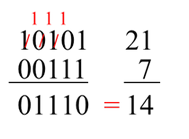
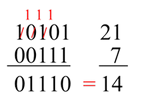
updage img size, update BinaryOperation readme

diff --git a/src/main/java/algorithms/numbers/bits/BinaryOperations.md b/src/main/java/algorithms/numbers/bits/BinaryOperations.md
@@ -8,34 +8,38 @@ an increment resets it to 0 and causes an increment of the next digit to the lef
 
 
 #### Calculations
-Addition:  
+
+**Addition:**  
 ![addition](https://github.com/aTan-aka-Xellos/java-algorithms/blob/master/src/main/resources/img/numbers/addition.png)  
 
-Subtraction:  
+**Subtraction:**  
 ![substraction](https://github.com/aTan-aka-Xellos/java-algorithms/blob/master/src/main/resources/img/numbers/substraction.png)
 
-Multiplication:  
+**Multiplication:**  
 ![multiplication](https://github.com/aTan-aka-Xellos/java-algorithms/blob/master/src/main/resources/img/numbers/multiplication.png)
 
-Division:  
+**Division:**  
 ![division](https://github.com/aTan-aka-Xellos/java-algorithms/blob/master/src/main/resources/img/numbers/division.png)  
 
 #### Conversion to and from decimal numeral system  
 
-From binary to decimal:  
+**From binary to decimal:**  
 ![bin2dec](https://github.com/aTan-aka-Xellos/java-algorithms/blob/master/src/main/resources/img/numbers/bin2dec.png)   
 
-From decimal to binary:  
+**From decimal to binary:**  
 ![dec2bin](https://github.com/aTan-aka-Xellos/java-algorithms/blob/master/src/main/resources/img/numbers/dec2bin.png) 
 
 #### Representing negative values  
 
 Java uses approach, which is called two's complement. 
 Negative numbers are representing by negating (flipping) all the bits and then adding 1. 
-If the leftmost bit is 0, the number is positive. Otherwise, it is negative. 
+If the leftmost bit is 0, the number is positive. Otherwise, it is negative.  
 Example with switch sign of 8-bit 1 to -1:       
+```
 ~0000 0001 = 1111 1110  
-1111 1110 + 1 = 1111 1111   
+1111 1110 + 1 = 1111 1111
+```
+     
 ![2complement](https://github.com/aTan-aka-Xellos/java-algorithms/blob/master/src/main/resources/img/numbers/2complement.jpg)   
 
 
@@ -49,6 +53,7 @@ Bitwise OR, or logical inclusive OR. The result is 0 if both bits are 0, while o
 Bitwise XOR, or logical exclusive OR. The result is 1 if only the first bit is 1 or only the second bit is 1, but will be 0 if both are 0 or both are 1.  
 **NOT [~]**  
 Bitwise NOT, or complement. Bits that are 0 become 1, and those that are 1 become 0.  
+
 ![dec2bin](https://github.com/aTan-aka-Xellos/java-algorithms/blob/master/src/main/resources/img/numbers/bitwise_operators.jpg)  
    
 #### Bit Shift operators  
@@ -57,7 +62,9 @@ Bitwise NOT, or complement. Bits that are 0 become 1, and those that are 1 becom
 Signed left shift moves all the bits by given number of positions to the left.   
 Shifting a number by one is equivalent to multiplying it by 2, 
 or more generally left shifting a number by n positions is equivalent to multiplication by 2^n.  
-*101 << 2 = 10100 (20)*  
+```
+101 << 2 = 10100 (20)  
+```
 
 There are several additional interesting aspects to this:  
 
@@ -71,15 +78,19 @@ However, it preserves the sign. Positive numbers remain positive and negative on
 This mean that right shifting negative value causes filling all bites by 1.   
 Similar to left shift, the right shift of n positions is equivalent to division by 2^n. 
 Or division by 2^n -1 in case of odd numbers.  
-*1100 >> 2 = 11 (3)*  
+```
+1100 >> 2 = 11 (3)
+```  
 
 **Unsigned Right Shift [>>>]**  
 Unlike the signed shift, the unsigned one does not take sign bits into consideration, 
 it just shifts all the bits to the right and pads the result with zeros from the left. 
 That means that for negative numbers, the result is always positive. 
 Signed and unsigned right shifts have the same result for positive numbers.  
-*1100 >> 2 = 11 (3)*    
+```
+1100 >> 2 = 11 (3)
+```    
 
-####Useful links:
-[Bitwise and Bit Shift operations](https://www.vojtechruzicka.com/bit-manipulation-java-bitwise-bit-shift-operations)
-
+#### Useful links:  
+[Bitwise and Bit Shift operations](https://www.vojtechruzicka.com/bit-manipulation-java-bitwise-bit-shift-operations)  
+[Two's complement](https://en.wikipedia.org/wiki/Two%27s_complement)  
